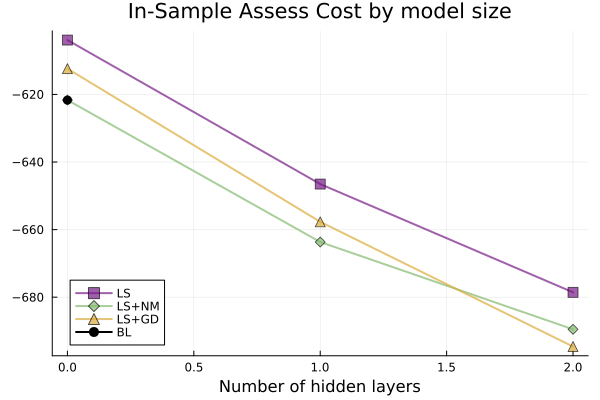
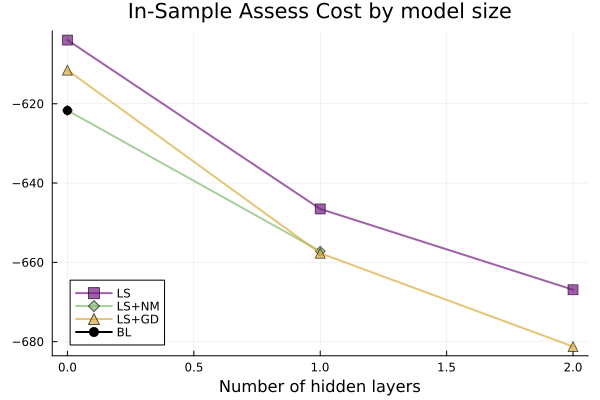
replace optimizer to gurobi, update readme and comment some results

diff --git a/README.md b/README.md
@@ -20,6 +20,16 @@ root/
 │   │   ├─ lp.jl # optimization model mount
 │   │   ├─ ls.jl # least-squares model functions
 │   │   └─ newsvendor_3.jl # main script
+│   ├─ shortest_path/
+│   │   ├─ data/ # data folder
+│   │   │   ├─ input/ # (x,y) input data
+│   │   │   └─ costs_to_compare.csv # pyepo test costs
+│   │   └─ shortest_path.jl # main script
+│   ├─ knapsack/
+│   │   ├─ data/ # data folder
+│   │   │   ├─ input/ # (x,y) input data
+│   │   │   └─ costs_to_compare.csv # pyepo test costs
+│   │   └─ knapsack.jl # main script
 ``` 
 
 ## Examples Description
@@ -37,3 +47,11 @@ We also analyze the relationship between size of the bias introduced by the appl
 ### Nesvendor 3
 
 Uses same problem from `Newsvendor 2` with longer timeseries. In this setting, we compare performance for increasing number of predictive model parameters, showing that GradientMode eventually becomes a better alternative than NelderMeadMode and BilevelMode for big models.
+
+### Shortest path
+
+Shortest path problem from PyEPO (https://arxiv.org/abs/2206.14234). This takes data constructed from PyEPO code, mounts the same problem, solves it and compare out-of-sample costs.
+
+### Knapsack
+
+Knapsack problem from PyEPO (https://arxiv.org/abs/2206.14234). This takes data constructed from PyEPO code, mounts the same problem, solves it and compare out-of-sample costs. 
